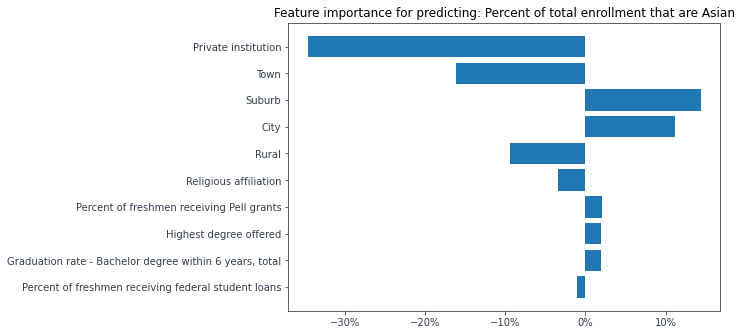
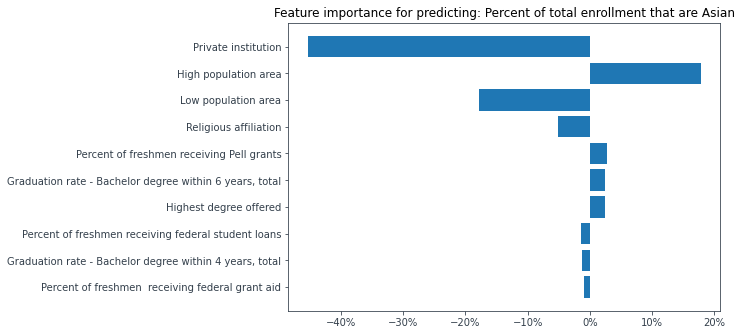
Generic person page

diff --git a/src/pages/PersonPage.tsx b/src/pages/PersonPage.tsx
@@ -1,0 +1,74 @@
+import {Box, Grid, Stack, Typography} from "@mui/material";
+import FoliumMap from "./components/FoliumMap";
+import Image from "mui-image"
+import {useEffect} from "react";
+import TextWithAudio from "./components/TextWithAudio";
+import FeatureBox from "./components/FeatureBox";
+import Location from "../images/cityscape.png"
+import Religion from "../images/bible.png"
+import Degree from "../images/degree.png"
+import Private from "../images/private.png"
+import {useTriggerScroll} from "../context/TriggerScrollContext";
+
+export interface PersonPageProps {
+    map: string; // eg. plots/map_white.html
+    mapText: string;
+    featureImportance: string;
+    featureImportanceText: string;
+    boxPlot: string;
+    boxPlotText: string;
+}
+
+function PersonPage(props: PersonPageProps) {
+    const {triggerScroll} = useTriggerScroll()
+
+    useEffect(() => {
+        window.scrollTo({
+            top: window.innerHeight,
+            behavior: "smooth"
+        })
+    }, [triggerScroll])
+
+    return (
+        <Grid container justifyContent={"center"}>
+            <Grid container item xs={8} justifyContent={"center"} rowSpacing={4}>
+                <Grid item xs={8}>
+                    <Typography variant={"h6"}>
+                        {"Under- and overrepresentation in each state"}
+                    </Typography>
+                    {window.location.hostname === "localhost" ?
+                        <FoliumMap src={`dataviz-final/${props.map}`}/> :
+                        <FoliumMap src={props.map}/>
+                    }
+                </Grid>
+
+                <TextWithAudio text={props.mapText}/>
+
+                <Grid item xs={8}>
+                    <Image src={props.featureImportance} duration={100}/>
+                </Grid>
+                <Box width={"100%"}/>
+
+                <Grid item xs={6}>
+                    <Stack direction={"row"} spacing={6}>
+                        <FeatureBox text={"100%"} src={Location} tooltip={"University in high-population area"}/>
+                        <FeatureBox text={"100%"} src={Private} tooltip={"Private institution"}/>
+                        <FeatureBox text={"100%"} src={Religion} tooltip={"Religious affiliation"}/>
+                        <FeatureBox text={"100%"} src={Degree} tooltip={"Highest degree offered"}/>
+                    </Stack>
+                </Grid>
+
+                <TextWithAudio text={props.featureImportanceText}/>
+
+                <Grid item xs={12}>
+                    <Image src={props.boxPlot} duration={100}/>
+                </Grid>
+                <Box width={"100%"}/>
+
+                <TextWithAudio text={props.boxPlotText}/>
+            </Grid>
+        </Grid>
+    )
+}
+
+export default PersonPage;

diff --git a/src/pages/persons/Caucasian.tsx b/src/pages/persons/Caucasian.tsx
@@ -1,0 +1,18 @@
+import PersonPage from "../PersonPage";
+import FeatureImportance from "../../images/plots/Percent_of_total_enrollment_that_are_White.png"
+import BoxPlot from "../../images/plots/Boxplot_White.png"
+
+function Caucasian(){
+    return (
+        <PersonPage
+            map={"plots/map_white.html"}
+            mapText={"Lorem ipsum dolor sit amet, consectetur adipiscing elit. Cras ornare eros id odio auctor, sed consectetur nunc bibendum. Sed tristique ex et tempus ultrices. In feugiat at lorem eget malesuada. Sed nec arcu a lectus malesuada eleifend non quis purus. Phasellus in eros a ex finibus luctus. Maecenas ac odio dictum, ultrices nunc vel, faucibus felis. Ut et urna nisl. Cras non molestie massa, sit amet aliquam nibh. Donec vel vestibulum orci, in placerat ipsum."}
+            featureImportance={FeatureImportance}
+            featureImportanceText={"Lorem ipsum dolor sit amet, consectetur adipiscing elit. Cras ornare eros id odio auctor, sed consectetur nunc bibendum. Sed tristique ex et tempus ultrices. In feugiat at lorem eget malesuada. Sed nec arcu a lectus malesuada eleifend non quis purus. Phasellus in eros a ex finibus luctus. Maecenas ac odio dictum, ultrices nunc vel, faucibus felis. Ut et urna nisl. Cras non molestie massa, sit amet aliquam nibh. Donec vel vestibulum orci, in placerat ipsum."}
+            boxPlot={BoxPlot}
+            boxPlotText={"Lorem ipsum dolor sit amet, consectetur adipiscing elit. Cras ornare eros id odio auctor, sed consectetur nunc bibendum. Sed tristique ex et tempus ultrices. In feugiat at lorem eget malesuada. Sed nec arcu a lectus malesuada eleifend non quis purus. Phasellus in eros a ex finibus luctus. Maecenas ac odio dictum, ultrices nunc vel, faucibus felis. Ut et urna nisl. Cras non molestie massa, sit amet aliquam nibh. Donec vel vestibulum orci, in placerat ipsum."}
+        />
+    )
+}
+
+export default Caucasian;

diff --git a/src/pages/Main.tsx b/src/pages/Main.tsx
@@ -1,7 +1,7 @@
 import {Grid} from "@mui/material";
 import RaceNav from "./RaceNav";
 import {Route, Routes} from "react-router-dom"
-import CaucasianMain from "./caucasian/CaucasianMain";
+import Caucasian from "./persons/Caucasian";
 import ScrollToTop from "react-scroll-to-top";
 
 function Main() {
@@ -11,7 +11,7 @@ function Main() {
             <ScrollToTop smooth/>
             <Grid container item justifyContent={"center"} xs={12}>
                 <Routes>
-                    <Route path={"/caucasian"} element={<CaucasianMain/>}/>
+                    <Route path={"/caucasian"} element={<Caucasian/>}/>
                     <Route path={"/africanamerican"} element={<></>}/>
                     <Route path={"/asian"} element={<></>}/>
                     <Route path={"/male"} element={<></>}/>

diff --git a/src/pages/RaceNav.tsx b/src/pages/RaceNav.tsx
@@ -1,6 +1,6 @@
 import {Button, Grid} from "@mui/material";
 import {Face} from "@mui/icons-material";
-import {Navigate, useNavigate} from "react-router-dom";
+import {useNavigate} from "react-router-dom";
 import {useTriggerScroll} from "../context/TriggerScrollContext";
 
 function RaceNav() {

diff --git a/src/App.tsx b/src/App.tsx
@@ -1,5 +1,4 @@
 import React from 'react';
-import logo from './logo.svg';
 import './App.css';
 import {Helmet} from "react-helmet";
 import Main from "./pages/Main";
